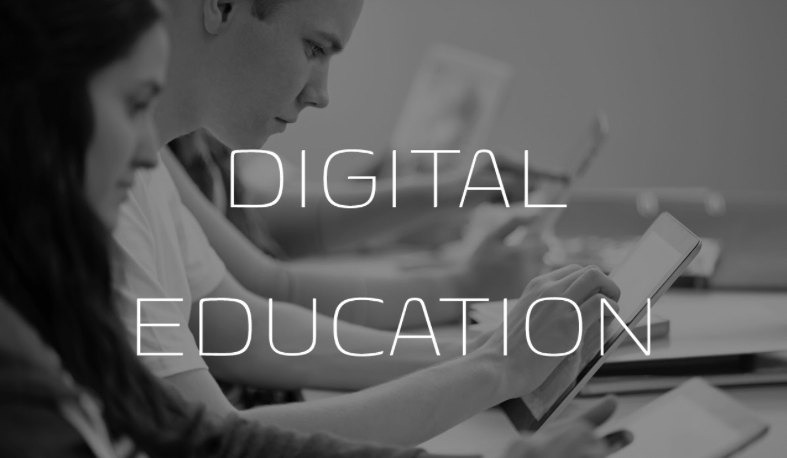
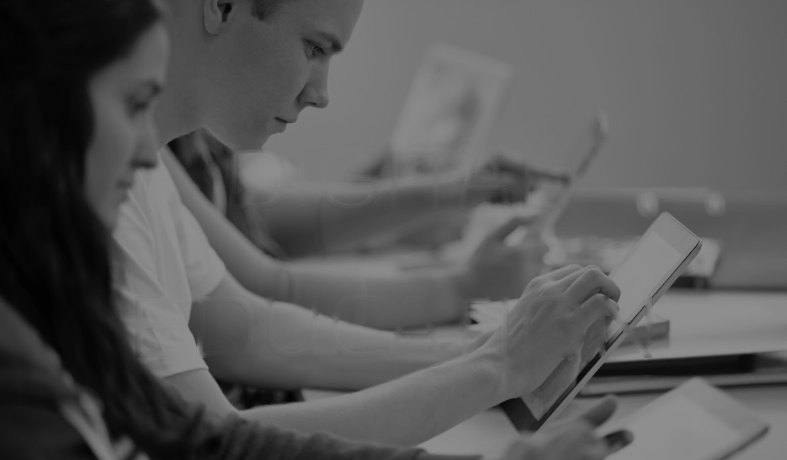
Kapı görselleri: yazılar temizlendi, bulanıklık azaltıldı
Claude-Session: https://claude.ai/code/session_011M9B1ZqnfsRYAAQaEaxnXL

diff --git a/index.html b/index.html
@@ -70,7 +70,7 @@ img{display:block;max-width:100%}
 .door .go::after{content:"→";transition:transform .3s}
 .door:hover .go::after{transform:translateX(8px)}
 .door{isolation:isolate}
-.door::after{content:"";position:absolute;inset:-24px;z-index:-2;background:var(--img) center/cover no-repeat;filter:blur(var(--blur,12px)) grayscale(1);transform:scale(1.02);transition:transform 1.2s,filter .6s}
+.door::after{content:"";position:absolute;inset:-24px;z-index:-2;background:var(--img) center/cover no-repeat;filter:blur(var(--blur,2px)) grayscale(1);transform:scale(1.02);transition:transform 1.2s,filter .6s}
 .door:hover::after{transform:scale(1.08)}
 .door::before{content:"";position:absolute;inset:0;z-index:-1;background:linear-gradient(180deg,rgba(0,0,0,.45) 0%,rgba(0,0,0,.7) 55%,rgba(0,0,0,.92) 100%);transition:background .6s}
 .door:hover::before{background:linear-gradient(180deg,color-mix(in srgb,var(--c) 22%,rgba(0,0,0,.25)) 0%,rgba(0,0,0,.55) 55%,rgba(0,0,0,.9) 100%)}
@@ -81,7 +81,7 @@ img{display:block;max-width:100%}
 .who{--img:url("assets/door-who.jpg")}
 /* iç sayfa kapakları */
 .cover{position:relative;margin:-170px -40px 70px;height:min(52vh,520px);display:flex;align-items:center;justify-content:center;overflow:hidden;isolation:isolate}
-.cover::after{content:"";position:absolute;inset:-40px;z-index:-2;background:var(--img) center/cover no-repeat;filter:blur(var(--blur,18px)) grayscale(1)}
+.cover::after{content:"";position:absolute;inset:-40px;z-index:-2;background:var(--img) center/cover no-repeat;filter:blur(var(--blur,5px)) grayscale(1)}
 .cover::before{content:"";position:absolute;inset:0;z-index:-1;background:linear-gradient(180deg,rgba(0,0,0,.35),color-mix(in srgb,var(--c) 20%,rgba(0,0,0,.55)) 60%,transparent 100%)}
 .cover h1{font-weight:300;font-size:clamp(40px,7vw,104px);letter-spacing:.32em;text-transform:uppercase;text-align:center;padding:0 20px;line-height:1.1}
 .cover h1 i{display:block;font-style:normal;font-size:.22em;letter-spacing:.6em;color:var(--c);margin-top:18px;font-weight:600}
